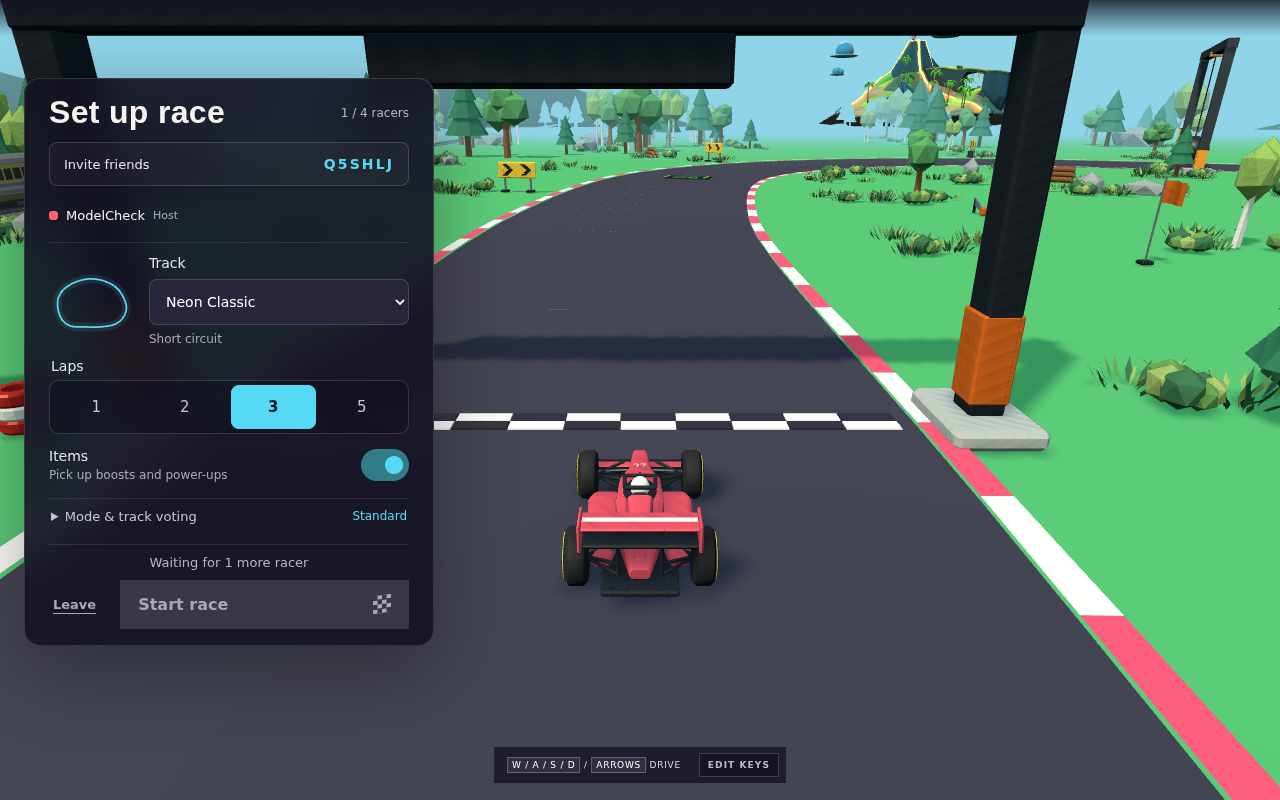
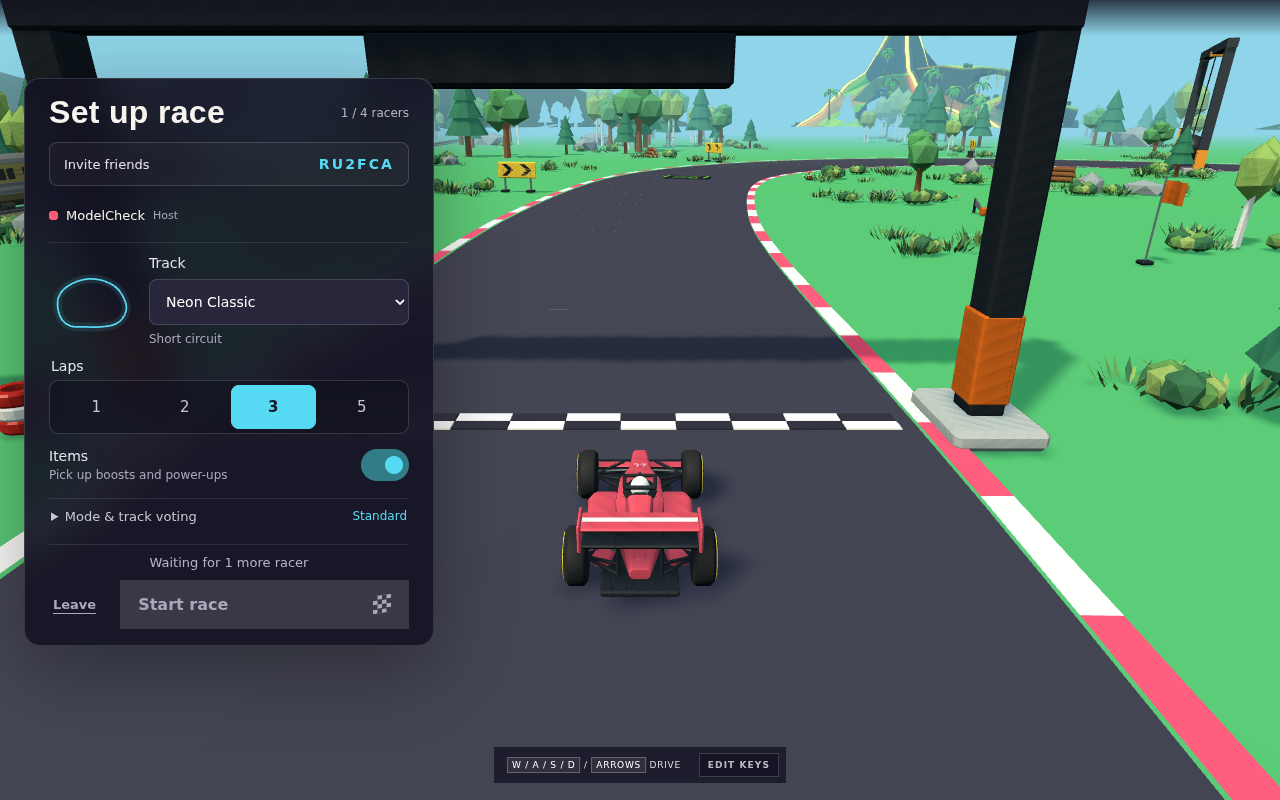
Blend volcano island into the distant terrain

diff --git a/src/game/volcano-island.ts b/src/game/volcano-island.ts
@@ -9,16 +9,7 @@ export async function loadVolcanoIsland(reducedMotion: boolean) {
   const materials = new Set<THREE.Material>()
   const textures = new Set<THREE.Texture>()
   const lava = new Set<THREE.MeshStandardMaterial>()
-  const clouds: { node: THREE.Object3D; origin: THREE.Vector3; drift: THREE.Vector3 }[] = []
-  group.updateMatrixWorld(true)
-  const sourceHeight = new THREE.Box3().setFromObject(group).getSize(new THREE.Vector3()).y
   group.traverse(node => {
-    if (node.name === 'Clouds' && node.parent) {
-      const inverse = node.parent.matrixWorld.clone().invert()
-      const drift = new THREE.Vector3(0, sourceHeight * 0.01, 0).applyMatrix4(inverse)
-        .sub(new THREE.Vector3().applyMatrix4(inverse))
-      clouds.push({ node, origin: node.position.clone(), drift })
-    }
     if (!(node instanceof THREE.Mesh)) return
     geometries.add(node.geometry)
     for (const material of Array.isArray(node.material) ? node.material : [node.material]) {
@@ -37,15 +28,14 @@ export async function loadVolcanoIsland(reducedMotion: boolean) {
   })
   const remove: THREE.Object3D[] = []
   group.traverse(node => {
-    if (node.name === 'Ocean' || node instanceof THREE.Light || node instanceof THREE.Camera) remove.push(node)
+    if (node.name === 'Ocean' || node.name === 'Clouds' || node instanceof THREE.Light || node instanceof THREE.Camera) remove.push(node)
   })
   remove.forEach(node => node.removeFromParent())
   return {
     group,
     update: (time: number) => {
       const t = reducedMotion ? 0 : time
-      clouds.forEach(({ node, origin, drift }) => { node.position.copy(origin).addScaledVector(drift, Math.sin(t * 0.45)) })
-      lava.forEach(material => { material.emissiveIntensity = 0.85 + Math.sin(t * 1.2) * 0.15 })
+      lava.forEach(material => { material.emissiveIntensity = 0.18 + Math.sin(t * 1.2) * 0.04 })
     },
     dispose: () => {
       geometries.forEach(geometry => geometry.dispose())

diff --git a/src/game/mountain-backdrop.ts b/src/game/mountain-backdrop.ts
@@ -109,7 +109,7 @@ export function createMountainBackdrop(track: TrackDefinition, skyColor: number,
     materials.push(material)
     const puff = new THREE.Mesh(smokeGeometry, material)
     puff.name = `volcano-smoke-${i}`
-    fallback.add(puff)
+    group.add(puff)
     return puff
   })
   function update(time: number) {
@@ -138,7 +138,21 @@ export function createMountainBackdrop(track: TrackDefinition, skyColor: number,
       island.position.sub(new THREE.Vector3(center.x, box.min.y, center.z))
       placement.add(island)
       placement.scale.setScalar(scale)
-      placement.position.set(vx, -10, vz)
+      // Bury the beach and cut-away underside beneath the horizon.
+      placement.position.set(vx, -dimensions.y * scale * 0.28, vz)
+      island.traverse(node => {
+        if (!(node instanceof THREE.Mesh)) return
+        for (const material of Array.isArray(node.material) ? node.material : [node.material]) {
+          // A little atmospheric haze joins the textured asset to the distant hills.
+          material.onBeforeCompile = (shader: Parameters<THREE.Material['onBeforeCompile']>[0]) => {
+            shader.uniforms.landmarkHaze = { value: sky }
+            shader.fragmentShader = 'uniform vec3 landmarkHaze;\n' + shader.fragmentShader
+            shader.fragmentShader = shader.fragmentShader.replace('#include <opaque_fragment>',
+              'outgoingLight = mix(outgoingLight, landmarkHaze, 0.32);\n#include <opaque_fragment>')
+          }
+          material.needsUpdate = true
+        }
+      })
       group.add(placement)
       fallback.visible = false
     },

diff --git a/public/asset-credits.html b/public/asset-credits.html
@@ -12,7 +12,7 @@
 by <a href="https://sketchfab.com/Animateria">Animateria</a>, licensed under
 <a href="https://creativecommons.org/licenses/by/4.0/">Creative Commons Attribution 4.0</a>.</p>
 <p>Adapted for the game by removing the ocean plane and scene lights, adjusting materials and placement,
-and adding cloud motion and a pulsing lava glow. The original textures and geometry are retained.</p>
+hiding the authored clouds, adding a smoke plume and a subtle lava pulse, and blending the island into the horizon. The source file is retained unchanged.</p>
 <h2>Ruins and trains</h2>
 <p>Models by <a href="https://quaternius.com/">Quaternius</a>, licensed under
 <a href="https://creativecommons.org/publicdomain/zero/1.0/">CC0 1.0</a>.</p>

diff --git a/public/assets/SCENERY-CREDITS.md b/public/assets/SCENERY-CREDITS.md
@@ -20,7 +20,7 @@ by [Animateria](https://sketchfab.com/Animateria), licensed under
 [CC BY 4.0](https://creativecommons.org/licenses/by/4.0/).
 The GLB was supplied by the user. Its embedded asset metadata records the same author, source, and license.
 The game preserves the geometry and textures, hides the ocean plane, removes imported lights/cameras,
-adjusts material response, scales the island uniformly, and adds cloud motion and lava glow animation.
+adjusts material response, scales the island uniformly, hides the authored clouds, adds animated smoke and subtle lava glow, and blends the buried island into the horizon.
 The procedural volcano remains only as a loading/error fallback.
 Player-facing credit is linked from the landing page at `/asset-credits.html`.
 
